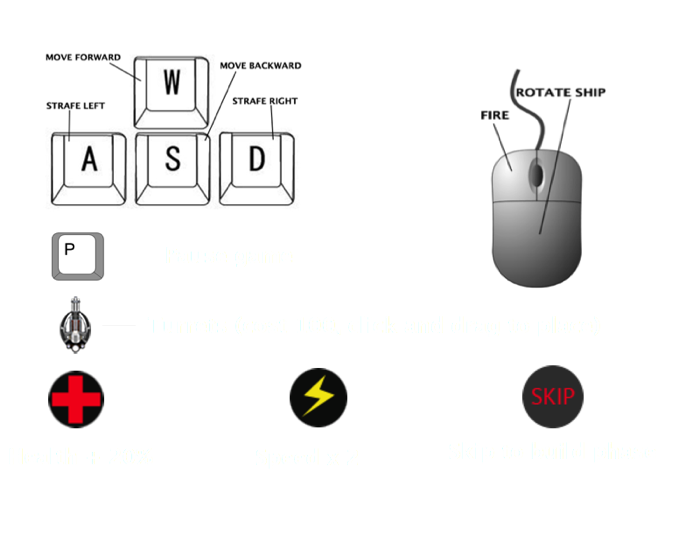
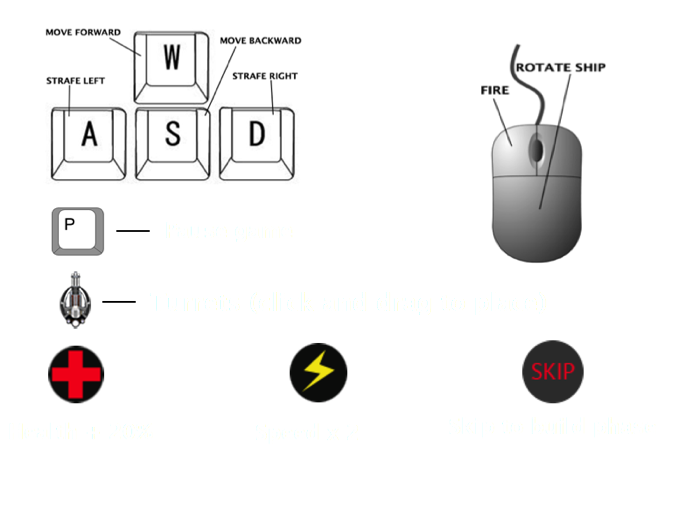
edited control screen and turret cost

diff --git a/js/main.js b/js/main.js
@@ -104,7 +104,7 @@ window.onload = function() {
 			this.touching = false;
 			this.moveable = false;
 			this.active = false;
-			this.cost = 200;
+			this.cost = 500;
 			this.paid = false;
 
 
@@ -455,7 +455,7 @@ window.onload = function() {
 			backButton = new Sprite(96, 40);
 			backButton.image = game.assets['res/images/back_button.png'];
 			backButton.x = 100;
-			backButton.y = 500;
+			backButton.y = 520;
 /*
 			// Create images for button controls - WASD keys
 			wasd = new Sprite(325, 220);
@@ -477,7 +477,7 @@ window.onload = function() {
 			controlScreen = new Sprite(800, 600);
 			controlScreen.image = game.assets['res/images/controlScreen.png'];
 			controlScreen.x = 100;
-			controlScreen.y = 17;
+			controlScreen.y = 55;
 
 			this.addChild(bg);
 			this.addChild(controlScreen);
